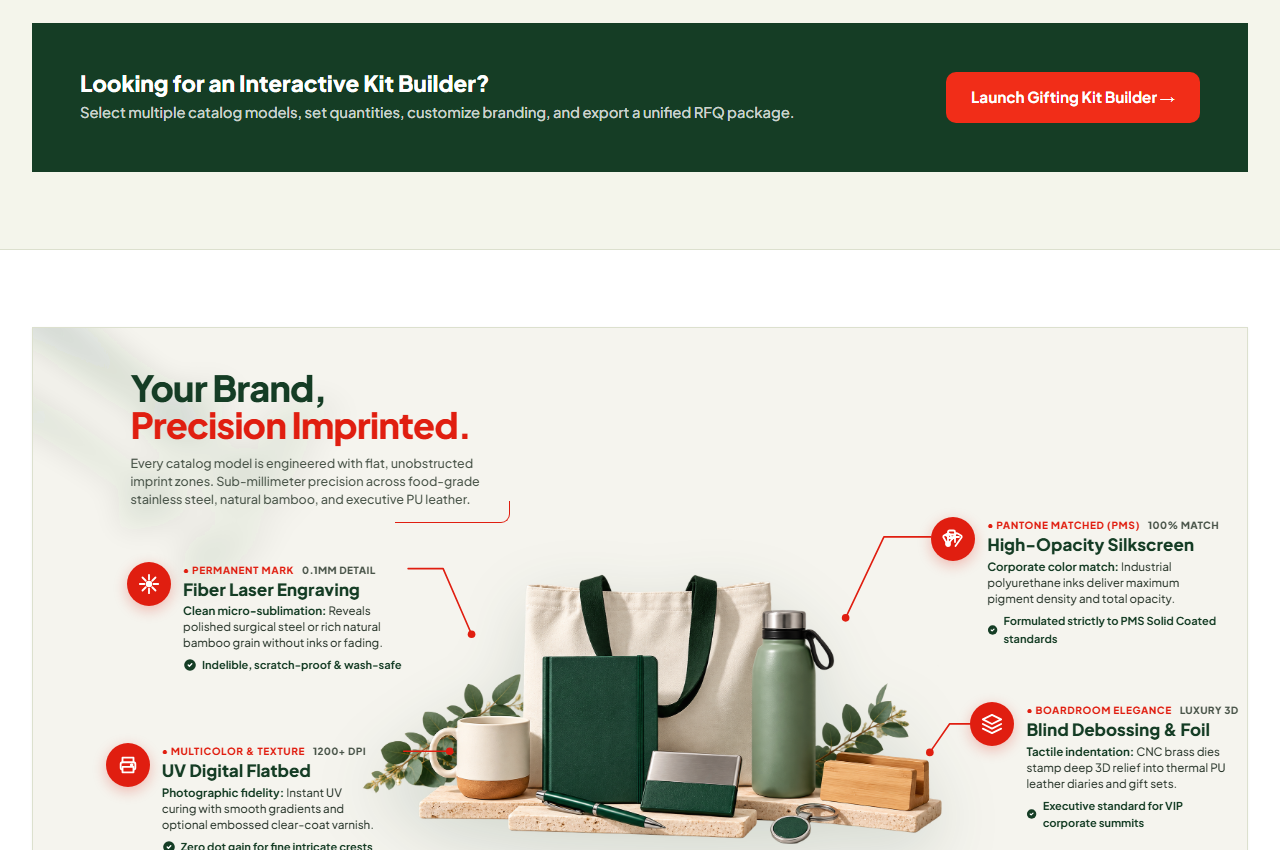
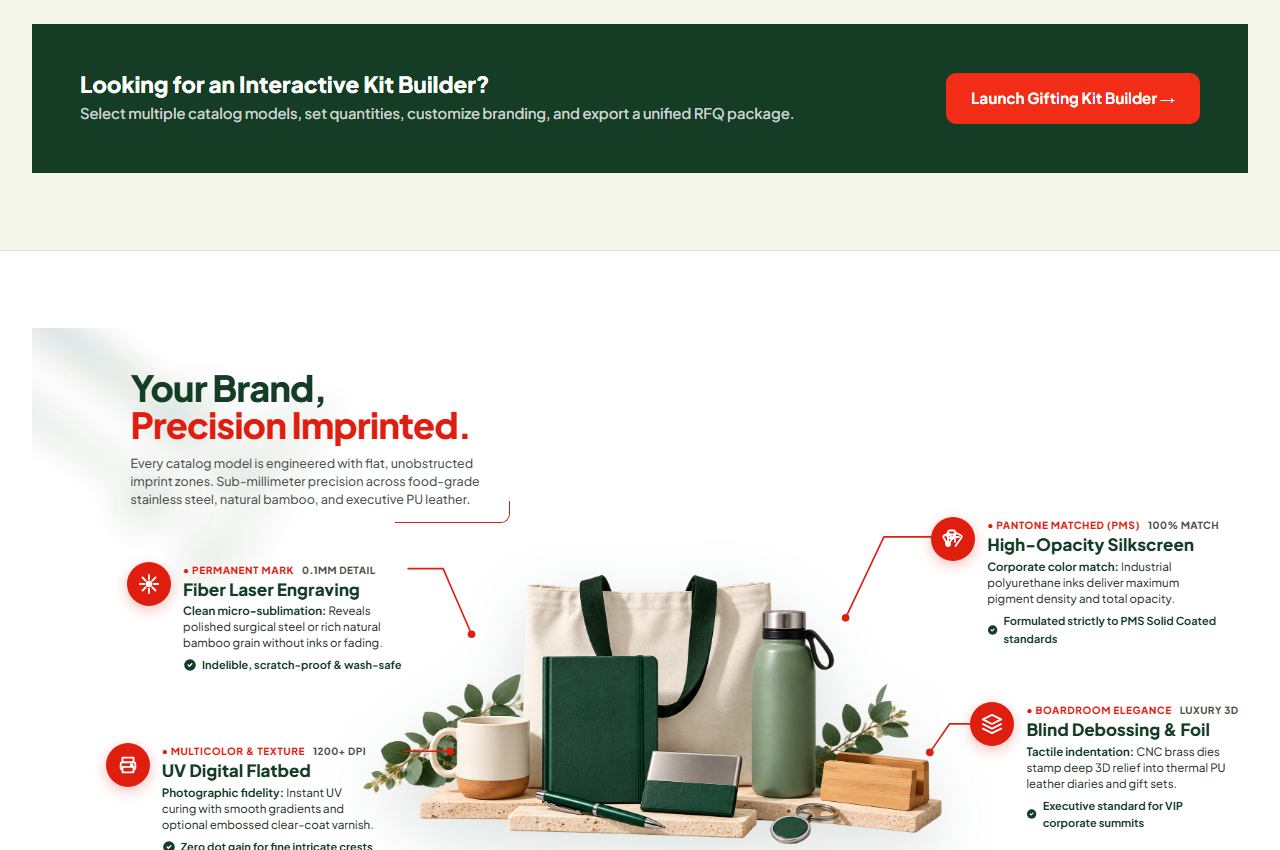
fix(branding): remove breadcrumbs and make background blend seamlessly with website canvas

Changed region(s): [[0.0625, 0.0918, 0.625, 0.1529], [0.75, 0.0918, 0.9062, 0.1224]]

diff --git a/src/pages/BrandingPage.tsx b/src/pages/BrandingPage.tsx
@@ -85,18 +85,7 @@ export function BrandingPage() {
   ];
 
   return (
-    <div className="container" style={{ paddingBlock: 'var(--space-2xl)' }}>
-      {/* Breadcrumbs */}
-      <nav aria-label="Breadcrumb" style={{ marginBottom: 'var(--space-lg)', fontSize: '0.85rem' }}>
-        <ol style={{ display: 'flex', alignItems: 'center', gap: '8px', listStyle: 'none', margin: 0, padding: 0 }}>
-          <li>
-            <Link to="/" style={{ color: 'var(--color-text-muted)', textDecoration: 'none' }}>Home</Link>
-          </li>
-          <li style={{ color: 'var(--color-text-muted)' }}>/</li>
-          <li style={{ fontWeight: 600, color: 'var(--color-text-main)' }}>Branding &amp; Imprint Studio</li>
-        </ol>
-      </nav>
-
+    <div className="container" style={{ paddingTop: 'var(--space-lg)', paddingBottom: 'var(--space-2xl)' }}>
       {/* ========================================================
           HERO SHOWCASE BANNER — INFOGRAPHIC SHOWCASE MATCHING SPEC
          ======================================================== */}

diff --git a/src/components/branding/BrandingHeroShowcase.tsx b/src/components/branding/BrandingHeroShowcase.tsx
@@ -10,11 +10,9 @@ export const BrandingHeroShowcase: React.FC<BrandingHeroShowcaseProps> = ({ show
     <div
       style={{
         position: 'relative',
-        backgroundColor: '#F5F4EE',
-        border: '1px solid var(--color-border)',
-        borderRadius: 'var(--radius-2xl)',
-        overflow: 'hidden',
-        boxShadow: 'var(--shadow-sm)'
+        backgroundColor: 'transparent',
+        border: 'none',
+        overflow: 'hidden'
       }}
     >
       {/* ========================================================
@@ -499,9 +497,7 @@ export const BrandingHeroShowcase: React.FC<BrandingHeroShowcaseProps> = ({ show
             justifyContent: 'center',
             gap: '24px',
             flexWrap: 'wrap',
-            padding: '16px clamp(16px, 3vw, 32px)',
-            borderTop: '1px solid rgba(21, 61, 37, 0.08)',
-            backgroundColor: 'rgba(255, 255, 255, 0.55)',
+            padding: '24px clamp(16px, 3vw, 32px) 8px clamp(16px, 3vw, 32px)',
             position: 'relative',
             zIndex: 4
           }}
